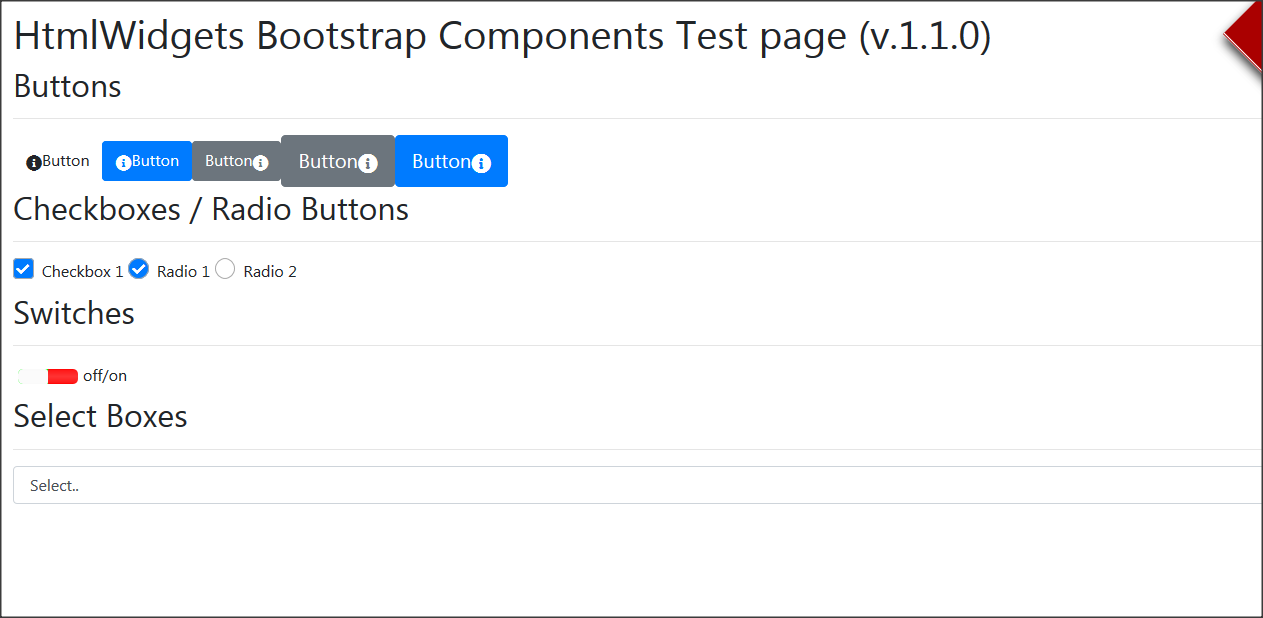
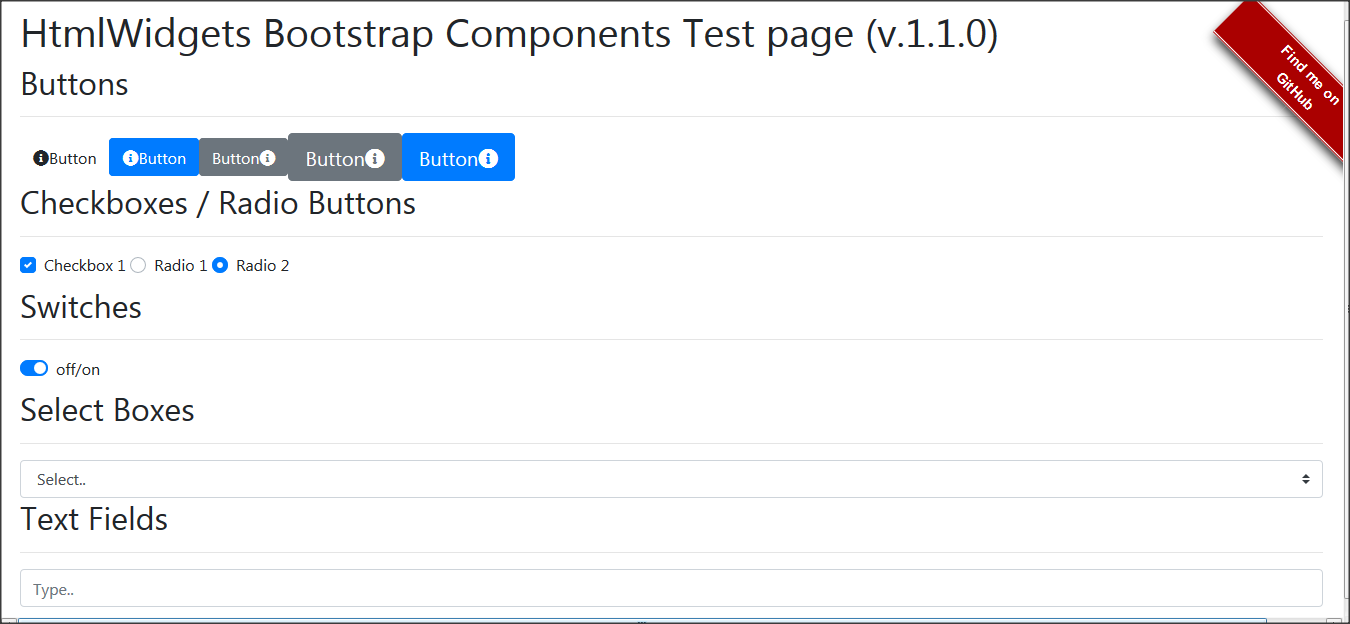
v.1.1.0 in progress
* complete basic material/bootstrap-based widgets support

diff --git a/htmlwidgets.dev.js b/htmlwidgets.dev.js
@@ -1955,6 +1955,9 @@ htmlwidget.widgetize = function( el ) {
     if ( $node.hasClass('w-templateable') ) $node.htmlwidget('template');
     if ( $node.hasClass('w-areaselectable') ) $node.htmlwidget('areaselect');
     if ( $node.hasClass('w-vextab') ) $node.htmlwidget('vextab');
+    /*if ( $node.hasClass('material-component') && 'undefined' !== mdc )
+    {
+    }*/
 };
 htmlwidget.tooltip = function( el ) {
     var $el = $(el), content = '', hasTooltip = $el.hasClass('tooltipstered');
@@ -2117,6 +2120,13 @@ if ( 'function' === typeof $.fn.popr2 )
         'attribute' : 'data-popr',
         'activate'  : 'click'
      });
+}
+
+if ( 'undefined' !== typeof mdc && !window.__MDCAutoInit__ )
+{
+    // material components
+    window.__MDCAutoInit__ = 1;
+    mdc.autoInit();
 }
 
 $body

diff --git a/HtmlWidget.php b/HtmlWidget.php
@@ -88,6 +88,9 @@ class HtmlWidget
         ,array('scripts', 'material.js', 
         'https://unpkg.com/material-components-web@latest/dist/material-components-web.min.js'
         , array('material.css'))
+        ,array('scripts', 'material-auto-init', array(
+        'window.HtmlWidget_OnDomReady=function(cb){if (document.readyState!="loading") cb(); else if (document.addEventListener) document.addEventListener("DOMContentLoaded", cb); else document.attachEvent("onreadystatechange", function(){ if (document.readyState=="complete") cb(); }); }; window.HtmlWidget_OnDomReady(function(){if ("undefined" !== typeof mdc && !window.__MDCAutoInit__) { window.__MDCAutoInit__=1; mdc.autoInit();}});'
+        ), array('material.js'))
         
         ,array('scripts-alt', 'html5shiv', array('<!--[if lt IE 9]><script type="text/javascript" src="'.$asset_base.'utils/html5shiv.js'.'"></script><![endif]-->'))
         
@@ -1039,7 +1042,19 @@ class HtmlWidget
 
     public static function w_empty( $attr, $data, $widgetName=null )
     {
-        self::enqueue('styles', 'htmlwidgets.css');
+        $framework = !empty($attr['framework']) ? strtolower((string)$attr['framework']) : 'default';
+        if ( 'material' === $framework )
+        {
+            self::enqueue('styles', 'material.css');
+        }
+        elseif ( 'bootstrap' === $framework || 'bootstrap3' === $framework )
+        {
+            self::enqueue('styles', 'bootstrap3' === $framework ? 'bootstrap3.css' : 'bootstrap.css');
+        }
+        else
+        {
+            self::enqueue('styles', 'htmlwidgets.css');
+        }
         return '';
     }
 
@@ -1084,7 +1099,7 @@ class HtmlWidget
         }
         $wextra = self::attributes($attr,array('disabled','data')).(!empty($attr["extra"]) ? (' '.$attr["extra"]) : '');
         self::enqueue('styles', 'htmlwidgets.css');
-        // iOS needs an onlick attribute to handle lable update if used as controller
+        // iOS needs an onlick attribute to handle label update if used as controller
         return "<label id=\"$wid\" $wfor class=\"$wclass\" title=\"$wtitle\" $wstyle onclick=\"\" $wextra>$wtext</label>";
     }
 
@@ -1126,22 +1141,29 @@ class HtmlWidget
         $wid = isset($attr["id"]) ? $attr["id"] : self::uuid();
         $wtext = isset($data['text']) ? $data['text'] : '';
         $wtitle = isset($attr['title']) ? $attr['title'] : $wtext;
+        $wextra2 = '';
+        
         if ( 'material' === $framework )
         {
             self::enqueue('styles', 'material.css');
-            $wclass = 'mdc-button';
+            self::enqueue('scripts', 'material-auto-init');
+            $wextra2 = 'data-mdc-auto-init="MDCRipple"';
+            $wclass = 'material-widget mdc-button';
             $wtext = '<span class="mdc-button__label">'.$wtext.'</span>';
         }
+        
         elseif ( 'bootstrap' === $framework || 'bootstrap3' === $framework )
         {
             self::enqueue('styles', 'bootstrap3' === $framework ? 'bootstrap3.css' : 'bootstrap.css');
-            $wclass = 'btn';
+            $wclass = 'bootstrap-widget btn';
         }
+        
         else
         {
             self::enqueue('styles', 'htmlwidgets.css');
             $wclass = 'w-widget w-button';
         }
+        
         if ( !empty($attr["class"]) ) $wclass .= ' '.$attr["class"];
         $wstyle = !empty($attr["style"]) ? 'style="'.$attr["style"].'"' : '';
         if ( !empty($attr['icon']) )
@@ -1160,18 +1182,18 @@ class HtmlWidget
         if ( isset($attr['for']) )
         {
             $wfor = $attr['for'];
-            return "<label id=\"$wid\" for=\"$wfor\" class=\"$wclass\" $wstyle onclick=\"\" title=\"$wtitle\" $wextra>$wtext</label>";
+            return "<label id=\"$wid\" for=\"$wfor\" class=\"$wclass\" $wstyle onclick=\"\" title=\"$wtitle\" $wextra $wextra2>$wtext</label>";
         }
         elseif ( isset($attr['href']) )
         {
             $whref = $attr['href'];
             $wextra .= ' '.self::attributes($attr,array('role','target','rel'));
-            return "<a id=\"$wid\" href=\"$whref\" class=\"$wclass\" $wstyle title=\"$wtitle\" $wextra>$wtext</a>";
+            return "<a id=\"$wid\" href=\"$whref\" class=\"$wclass\" $wstyle title=\"$wtitle\" $wextra $wextra2>$wtext</a>";
         }
         else
         {
             $wtype = isset($attr['type']) ? $attr['type'] : 'button';
-            return "<button id=\"$wid\" type=\"$wtype\" class=\"$wclass\" $wstyle title=\"$wtitle\" $wextra>$wtext</button>";
+            return "<button id=\"$wid\" type=\"$wtype\" class=\"$wclass\" $wstyle title=\"$wtitle\" $wextra $wextra2>$wtext</button>";
         }
     }
 
@@ -1186,57 +1208,60 @@ class HtmlWidget
         $wstyle = !empty($attr["style"]) ? 'style="'.$attr["style"].'"' : '';
         $wtitle = !empty($attr["title"]) ? 'title="'.$attr["title"].'"' : '';
         $wextra = self::attributes($attr,array('readonly','disabled','data')).(!empty($attr["extra"]) ? (' '.$attr["extra"]) : '');
+        
         if ( 'material' === $framework )
         {
             self::enqueue('styles', 'material.css');
+            self::enqueue('scripts', 'material-auto-init');
             if ( 'radio' === $wtype )
             {
-                $wclass = 'mdc-radio';
+                $wextra2 = 'data-mdc-auto-init="MDCRadio"';
+                $wclass = 'material-widget mdc-radio';
                 if ( !empty($attr['disabled']) ) $wclass .= ' mdc-radio--disabled';
                 if ( !empty($attr["class"]) ) $wclass .= ' '.$attr["class"];
-                $out = '<div class="'.$wclass.'" '.$wstyle.' '.$wtitle.'><input type="radio" class="mdc-radio__native-control" id="'.$wid.'" '.$wname.' value="'.$wvalue.'" '.$wchecked.' '.$wextra.'/><div class="mdc-radio__background"><div class="mdc-radio__outer-circle"></div><div class="mdc-radio__inner-circle"></div></div></div>';
+                $out = "<div class=\"$wclass\" $wstyle $wtitle $wextra2><input type=\"radio\" class=\"mdc-radio__native-control\" id=\"$wid\" $wname value=\"$wvalue\" $wchecked $wextra/><div class=\"mdc-radio__background\"><div class=\"mdc-radio__outer-circle\"></div><div class=\"mdc-radio__inner-circle\"></div></div></div>";
             }
             else
             {
-                $wclass = 'mdc-'.$wtype.'';
+                $wextra2 = 'data-mdc-auto-init="MDC'.ucfirst($wtype).'"';
+                $wclass = 'material-widget mdc-'.$wtype.'';
                 if ( !empty($attr['disabled']) ) $wclass .= ' mdc-'.$wtype.'--disabled';
                 if ( !empty($attr["class"]) ) $wclass .= ' '.$attr["class"];
-                $out = '<div class="'.$wclass.'" '.$wstyle.' '.$wtitle.'><input type="'.$wtype.'" class="mdc-'.$wtype.'__native-control" id="'.$wid.'" '.$wname.' value="'.$wvalue.'" '.$wchecked.' '.$wextra.'/><div class="mdc-'.$wtype.'__background"><svg class="mdc-'.$wtype.'__checkmark" viewBox="0 0 24 24"><path class="mdc-'.$wtype.'__checkmark-path" fill="none" d="M1.73,12.91 8.1,19.28 22.79,4.59"></path></svg><div class="mdc-'.$wtype.'__mixedmark"></div></div></div>';
+                $out = "<div class=\"$wclass\" $wstyle $wtitle $wextra2><input type=\"$wtype\" class=\"mdc-{$wtype}__native-control\" id=\"$wid\" $wname value=\"$wvalue\" $wchecked $wextra/><div class=\"mdc-{$wtype}__background\"><svg class=\"mdc-{$wtype}__checkmark\" viewBox=\"0 0 24 24\"><path class=\"mdc-{$wtype}__checkmark-path\" fill=\"none\" d=\"M1.73,12.91 8.1,19.28 22.79,4.59\"></path></svg><div class=\"mdc-{$wtype}__mixedmark\"></div></div></div>";
             }
             return $out;
         }
-        elseif ( 'bootstrap' === $framework || 'bootstrap3' === $framework )
+        
+        if ( 'bootstrap' === $framework || 'bootstrap3' === $framework )
         {
             self::enqueue('styles', 'bootstrap3' === $framework ? 'bootstrap3.css' : 'bootstrap.css');
-            self::enqueue('styles', 'bootstrap-extended.css');
-            $wclass = $wtype;
+            //self::enqueue('styles', 'bootstrap-extended.css');
+            $wclass = 'bootstrap-widget custom-control custom-'.$wtype;
             if ( !empty($attr["class"]) ) $wclass .= ' '.$attr["class"];
-            return "<div class=\"$wclass\" $wstyle><label><input type=\"$wtype\" id=\"$wid\" $wname value=\"$wvalue\" $wchecked $wextra /><span class=\"cr\"><i class=\"cr-icon fa fa-check\"></i></span></label></div>";
+            return "<div class=\"$wclass\" $wstyle $wtitle><input type=\"$wtype\" class=\"custom-control-input\" id=\"$wid\" $wname value=\"$wvalue\" $wchecked $wextra/><label class=\"custom-control-label\" for=\"$wid\"></label></div>";
+        }
+        
+        self::enqueue('styles', 'htmlwidgets.css');
+        $wstate = '';
+        if ( isset($attr['state-on']) ) $wstate .= " data-wstate-on=\"{$attr['state-on']}\"";
+        if ( isset($attr['state-off']) ) $wstate .= " data-wstate-off=\"{$attr['state-off']}\"";
+        if ( !empty($attr['image']) )
+        {
+            $wctrl = 'radio' === $wtype ? 'w-radio-image' : 'w-checkbox-image';
+            $wtext = '<span style="background-image:url('.$attr['image'].');"></span>';
+        }
+        elseif ( !empty($attr['label']) )
+        {
+            $wctrl = 'radio' === $wtype ? 'w-radio-label' : 'w-checkbox-label';
+            $wtext = $attr['label'];
         }
         else
         {
-            self::enqueue('styles', 'htmlwidgets.css');
-            $wstate = '';
-            if ( isset($attr['state-on']) ) $wstate .= " data-wstate-on=\"{$attr['state-on']}\"";
-            if ( isset($attr['state-off']) ) $wstate .= " data-wstate-off=\"{$attr['state-off']}\"";
-            if ( !empty($attr['image']) )
-            {
-                $wctrl = 'radio' === $wtype ? 'w-radio-image' : 'w-checkbox-image';
-                $wtext = '<span style="background-image:url('.$attr['image'].');"></span>';
-            }
-            elseif ( !empty($attr['label']) )
-            {
-                $wctrl = 'radio' === $wtype ? 'w-radio-label' : 'w-checkbox-label';
-                $wtext = $attr['label'];
-            }
-            else
-            {
-                $wctrl = 'radio' === $wtype ? 'w-radio' : 'w-checkbox';
-                $wtext = '&nbsp;';
-            }
-            $wclass = 'w-widget w-control'; if ( !empty($attr["class"]) ) $wclass .= ' '.$attr["class"];
-            return "<input type=\"$wtype\" id=\"$wid\" $wname class=\"$wctrl\" value=\"$wvalue\" $wextra $wchecked /><label for=\"$wid\" $wtitle class=\"$wclass\" $wstyle $wstate onclick=\"\">$wtext</label>";
+            $wctrl = 'radio' === $wtype ? 'w-radio' : 'w-checkbox';
+            $wtext = '&nbsp;';
         }
+        $wclass = 'w-widget w-control'; if ( !empty($attr["class"]) ) $wclass .= ' '.$attr["class"];
+        return "<input type=\"$wtype\" id=\"$wid\" $wname class=\"$wctrl\" value=\"$wvalue\" $wextra $wchecked /><label for=\"$wid\" $wtitle class=\"$wclass\" $wstyle $wstate onclick=\"\">$wtext</label>";
     }
 
     public static function w_control_list( $attr, $data, $widgetName=null )
@@ -1422,10 +1447,21 @@ class HtmlWidget
         if ( 'material' === $framework )
         {
             $wchecked = $wchecked ? 'checked' : '';
-            $wclass = "mdc-switch";
+            $wextra2 = 'data-mdc-auto-init="MDCSwitch"';
+            $wclass = "material-widget mdc-switch";
             if ( !empty($attr["class"]) ) $wclass .= ' '.$attr["class"];
             self::enqueue('styles', 'material.css');
-            return "<div class=\"$wclass\" $wstyle $wtitle><div class=\"mdc-switch__track\"></div><div class=\"mdc-switch__thumb-underlay\"><div class=\"mdc-switch__thumb\"><input type=\"checkbox\" id=\"$wid\" class=\"mdc-switch__native-control\" role=\"switch\" $wname value=\"$wvalue\" $wchecked  $wextra /></div></div></div>";
+            self::enqueue('scripts', 'material-auto-init');
+            return "<div class=\"$wclass\" $wstyle $wtitle $wextra2><div class=\"mdc-switch__track\"></div><div class=\"mdc-switch__thumb-underlay\"><div class=\"mdc-switch__thumb\"><input type=\"checkbox\" id=\"$wid\" class=\"mdc-switch__native-control\" role=\"switch\" $wname value=\"$wvalue\" $wchecked  $wextra /></div></div></div>";
+        }
+        
+        if ( 'bootstrap' === $framework || 'bootstrap3' === $framework )
+        {
+            $wchecked = $wchecked ? 'checked' : '';
+            $wclass = "boostrap-widget custom-control custom-switch";
+            if ( !empty($attr["class"]) ) $wclass .= ' '.$attr["class"];
+            self::enqueue('styles', 'bootstrap3' === $framework ? 'bootstrap3.css' : 'bootstrap.css');
+            return "<div class=\"$wclass\" $wstyle><input type=\"checkbox\" class=\"custom-control-input\" id=\"$wid\" $wname value=\"$wvalue\" $wchecked $wextra/><label class=\"custom-control-label\" for=\"$wid\"></label></div>";
         }
         
         $wclass = "w-widget w-switch"; if ( !empty($attr["class"]) ) $wclass .= ' '.$attr["class"];
@@ -1545,9 +1581,11 @@ class HtmlWidget
             if ( !empty($selected) ) $has_selected = true;
             $woptions .= "<option value=\"$key\"$selected>$val</option>";
         }
+        
         if ( 'material' === $framework )
         {
-            $wclass = "mdc-select";
+            $wextra2 = 'data-mdc-auto-init="MDCSelect"';
+            $wclass = "material-widget mdc-select";
             if ( !empty($attr["class"]) ) $wclass .= ' '.$attr["class"];
             $wplaceholder = '';
             if ( !empty($attr['placeholder']) )
@@ -1555,7 +1593,8 @@ class HtmlWidget
                 $wplaceholder = "<label class=\"mdc-floating-label\">".$attr['placeholder']."</label>";
             }
             self::enqueue('styles', 'material.css');
-            return "<div class=\"$wclass\" $wstyle $wtitle><i class=\"mdc-select__dropdown-icon\"></i><select id=\"$wid\" $wname class=\"mdc-select__native-control\" $wextra>$woptions</select>$wplaceholder<div class=\"mdc-line-ripple\"></div></div>";
+            self::enqueue('scripts', 'material-auto-init');
+            return "<div class=\"$wclass\" $wstyle $wtitle $wextra2><i class=\"mdc-select__dropdown-icon\"></i><select id=\"$wid\" $wname class=\"mdc-select__native-control\" $wextra>$woptions</select>$wplaceholder<div class=\"mdc-line-ripple\"></div></div>";
         }
         
         if ( !empty($attr['placeholder']) )
@@ -1565,9 +1604,10 @@ class HtmlWidget
             //if ( empty($wname) ) $wextra .= ' form="__NONE__"';
             $wextra .= ' data-placeholder="'.$attr['placeholder'].'"';
         }
+        
         if ( 'bootstrap' === $framework || 'bootstrap3' === $framework )
         {
-            $wclass = "form-control";
+            $wclass = "bootstrap-widget custom-select";
             if ( !empty($attr["class"]) ) $wclass .= ' '.$attr["class"];
             self::enqueue('styles', 'bootstrap3' === $framework ? 'bootstrap3.css' : 'bootstrap.css');
             return "<select id=\"$wid\" $wname class=\"$wclass\" $wstyle $wtitle $wextra>$woptions</select>";
@@ -1597,6 +1637,7 @@ class HtmlWidget
 
     public static function w_text( $attr, $data, $widgetName=null )
     {
+        $framework = !empty($attr['framework']) ? strtolower((string)$attr['framework']) : 'default';
         $wid = isset($attr["id"]) ? $attr["id"] : self::uuid();
         $winit = !empty($attr["init"]) ? 'w-init="'.$attr["init"].'"' : '';
         $wname = !empty($attr["name"]) ? 'name="'.$attr["name"].'"' : '';
@@ -1604,7 +1645,6 @@ class HtmlWidget
         $titl = isset($attr["title"]) ? $attr["title"] : '';
         $wtitle = !empty($titl) ? 'title="'.$titl.'"' : '';
         $wplaceholder = isset($attr['placeholder']) ? $attr['placeholder'] : $titl;
-        $wclass = 'w-widget w-text'; if ( !empty($attr["class"]) ) $wclass .= ' '.$attr["class"];
         $wstyle = !empty($attr["style"]) ? 'style="'.$attr["style"].'"' : '';
         // text, number, email, url, tel etc..
         $wtype = !empty($attr["type"]) ? $attr["type"] : 'text';
@@ -1621,6 +1661,26 @@ class HtmlWidget
             $wrapper_class .= ' w-icon-right';
         }
         $wextra = self::attributes($attr,array('readonly','disabled','data')).(!empty($attr["extra"]) ? (' '.$attr["extra"]) : '');
+        
+        if ( 'material' === $framework )
+        {
+            $wextra2 = 'data-mdc-auto-init="MDCTextField"';
+            $wclass = "material-widget mdc-text-field";
+            if ( !empty($attr["class"]) ) $wclass .= ' '.$attr["class"];
+            self::enqueue('styles', 'material.css');
+            self::enqueue('scripts', 'material-auto-init');
+            return "<div class=\"$wclass\" $wstyle $wextra2><input type=\"$wtype\" id=\"$wid\" $wname value=\"$wvalue\" class=\"mdc-text-field__input\" $wextra /><label class=\"mdc-floating-label\" for=\"$wid\">$wplaceholder</label><div class=\"mdc-line-ripple\"></div></div>";
+        }
+        
+        if ( 'bootstrap' === $framework || 'bootstrap3' === $framework )
+        {
+            $wclass = "bootstrap-widget form-control";
+            if ( !empty($attr["class"]) ) $wclass .= ' '.$attr["class"];
+            self::enqueue('styles', 'bootstrap3' === $framework ? 'bootstrap3.css' : 'bootstrap.css');
+            return "<input type=\"$wtype\" id=\"$wid\" $wname value=\"$wvalue\" class=\"$wclass\" $wstyle $wtitle placeholder=\"$wplaceholder\" $wextra/>";
+        }
+        
+        $wclass = 'w-widget w-text'; if ( !empty($attr["class"]) ) $wclass .= ' '.$attr["class"];
         if ( !empty($attr['autocomplete']) )
         {
             $wclass .= ' awesomplete';

diff --git a/test/bootstrap.php b/test/bootstrap.php
@@ -134,18 +134,18 @@ function scripts( )
 <h2>Checkboxes / Radio Buttons</h2>
 <hr />
 
-<?php widget('checkbox',array('framework'=>'bootstrap','id'=>'c1'),array()); ?>
+<?php widget('checkbox',array('framework'=>'bootstrap','id'=>'c1','class'=>'custom-control-inline'),array()); ?>
 <label for="c1">Checkbox 1</label>
 
-<?php widget('radio',array('framework'=>'bootstrap','id'=>'r1','name'=>'radio1'),array()); ?>
+<?php widget('radio',array('framework'=>'bootstrap','id'=>'r1','name'=>'radio1','class'=>'custom-control-inline'),array()); ?>
 <label for="r1">Radio 1</label>
 
-<?php widget('radio',array('framework'=>'bootstrap','id'=>'r2','name'=>'radio1'),array()); ?>
+<?php widget('radio',array('framework'=>'bootstrap','id'=>'r2','name'=>'radio1','class'=>'custom-control-inline'),array()); ?>
 <label for="r2">Radio 2</label>
 
 <h2>Switches</h2>
 <hr />
-<?php widget('switch',array('framework'=>'bootstrap','id'=>'s1'),array()); ?>
+<?php widget('switch',array('framework'=>'bootstrap','id'=>'s1','class'=>'custom-control-inline'),array()); ?>
 <label for="s1">off/on</label>
 
 <h2>Select Boxes</h2>
@@ -155,6 +155,10 @@ array('key1','option1'),
 array('key2','option2'),
 array('key3','option3'),
 ))); ?>
+
+<h2>Text Fields</h2>
+<hr />
+<?php widget('text',array('framework'=>'bootstrap','placeholder'=>'Type..'),array()); ?>
 
 <?php
 enqueue('styles','fontawesome.css');

diff --git a/test/material.php b/test/material.php
@@ -162,6 +162,10 @@ array('key2','option2'),
 array('key3','option3'),
 ))); ?>
 
+<h2>Text Fields</h2>
+<hr />
+<?php widget('text',array('framework'=>'material','placeholder'=>'Type..'),array()); ?>
+
 <?php
 enqueue('styles','fontawesome.css');
 styles( );

diff --git a/README.md b/README.md
@@ -74,7 +74,7 @@ standalone and pluggable optimised, localised, modular and dynamicaly initialise
 ![widgets-bootstrap](/screenshots/widgets-bootstrap.png)
 
 
-**using default widgets **
+**using default widgets**
 
 ![widgets-1](/screenshots/widgets-1.png)
 ![widgets-1-2](/screenshots/widgets-1-2.png)
